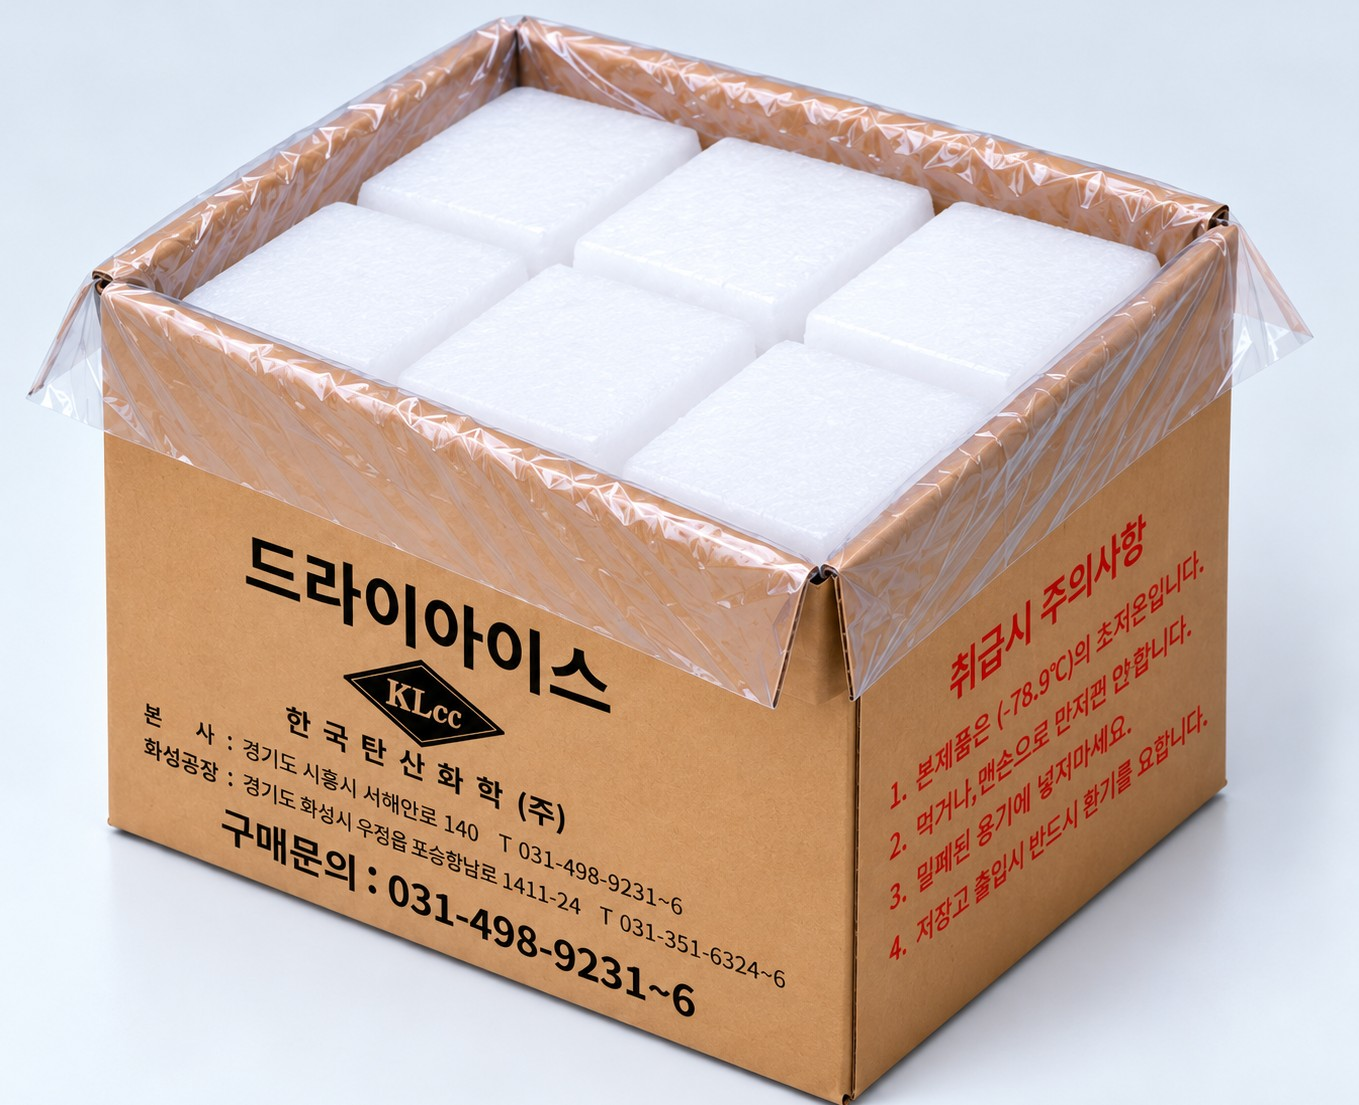
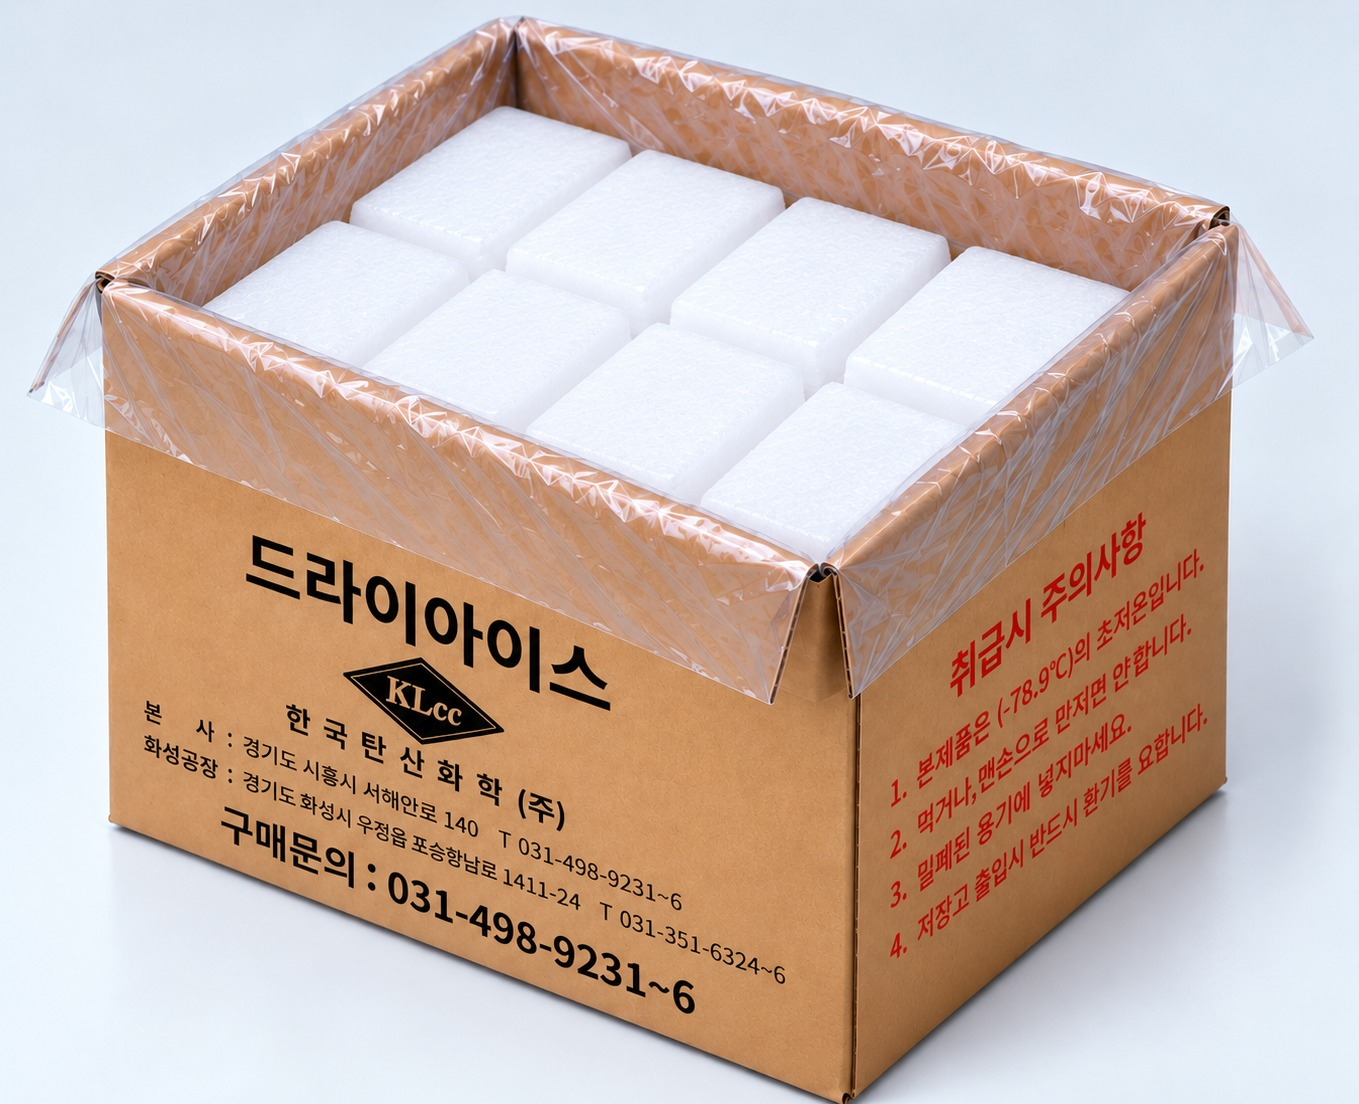
드라이아이스 블록 포장 프로세스 2번(블록 담기) 사진을 신규 사진으로 대체(1.23 비율 크롭). proc2.jpg?v=e

diff --git a/products-ice.html b/products-ice.html
@@ -414,7 +414,7 @@
                 <p class="icespec__sublead">안전한 품질 유지를 위해 아래와 같은 단계로 포장하여 출고합니다.</p>
                 <ol class="proc4">
                   <li class="proc4__step"><div class="proc4__media"><img src="assets/images/site/icespec/proc1.jpg?v=20260911b" alt="비닐 라이너 준비" loading="lazy"></div><b><span class="proc4__n">1</span>비닐 라이너 준비</b><p>박스 안에 비닐(라이너)을 깔아줍니다.</p></li>
-                  <li class="proc4__step"><div class="proc4__media"><img src="assets/images/site/icespec/proc2.jpg?v=20260911d" alt="블록 담기" loading="lazy"></div><b><span class="proc4__n">2</span>블록 담기</b><p>드라이아이스 블록을 담습니다.</p></li>
+                  <li class="proc4__step"><div class="proc4__media"><img src="assets/images/site/icespec/proc2.jpg?v=20260911e" alt="블록 담기" loading="lazy"></div><b><span class="proc4__n">2</span>블록 담기</b><p>드라이아이스 블록을 담습니다.</p></li>
                   <li class="proc4__step"><div class="proc4__media"><img src="assets/images/site/icespec/proc3.jpg?v=20260911l" alt="박스 포장" loading="lazy"></div><b><span class="proc4__n">3</span>박스 포장</b><p>내용물이 담긴 박스를 밀봉하여 포장합니다.</p></li>
                   <li class="proc4__step"><div class="proc4__media"><img src="assets/images/site/icespec/proc4.jpg?v=20260911b" alt="외부 비닐 포장" loading="lazy"></div><b><span class="proc4__n">4</span>외부 비닐 포장</b><p>외부 비닐로 한 번 더 포장하여 출고합니다.</p></li>
                 </ol>
